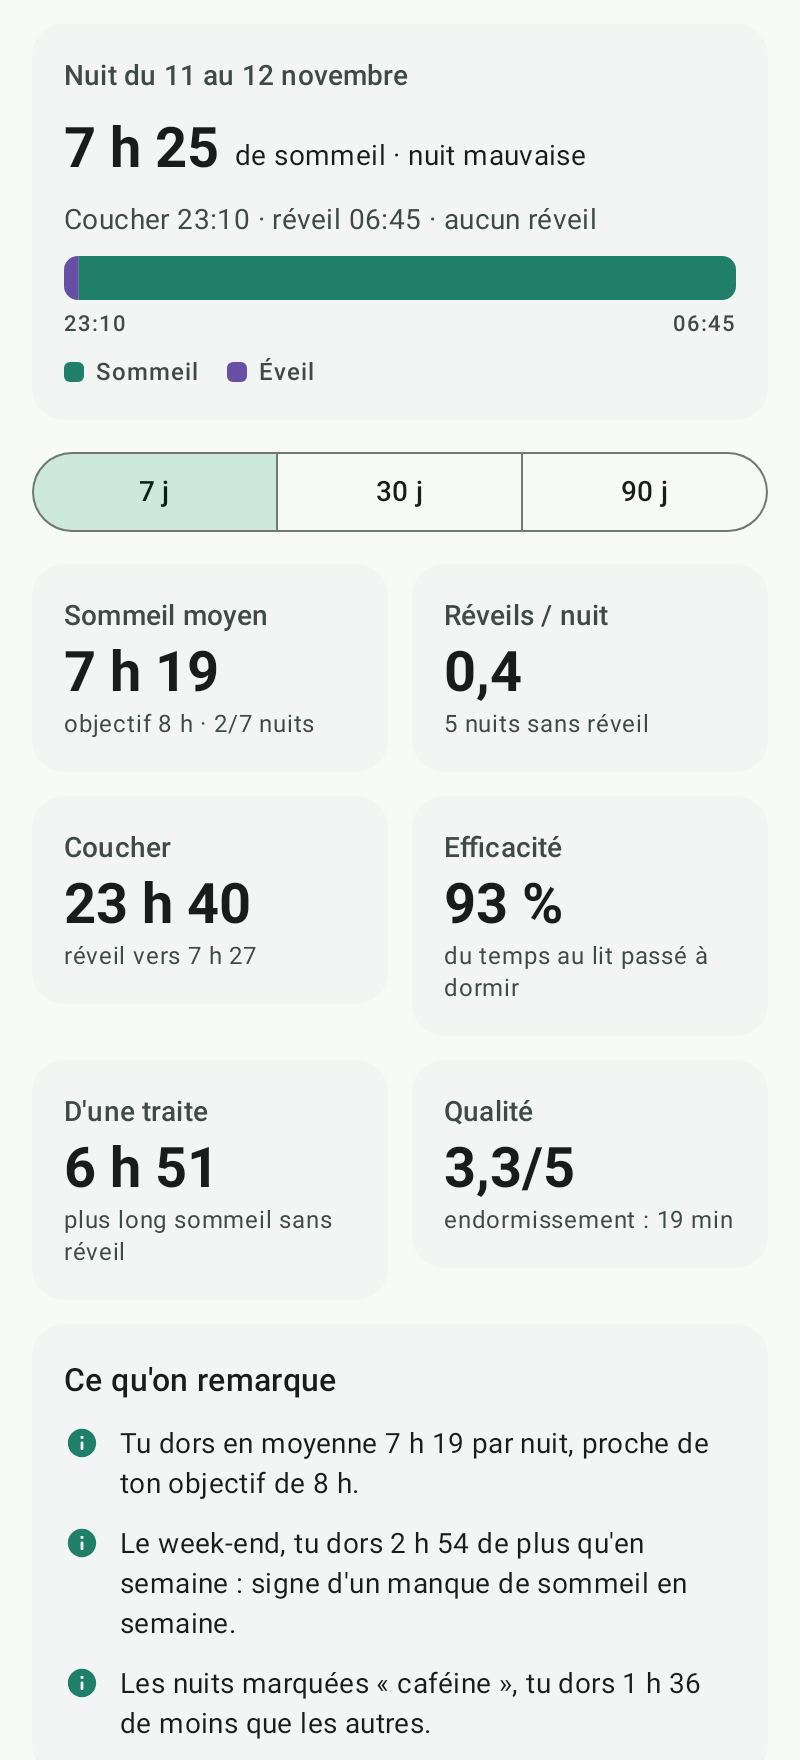
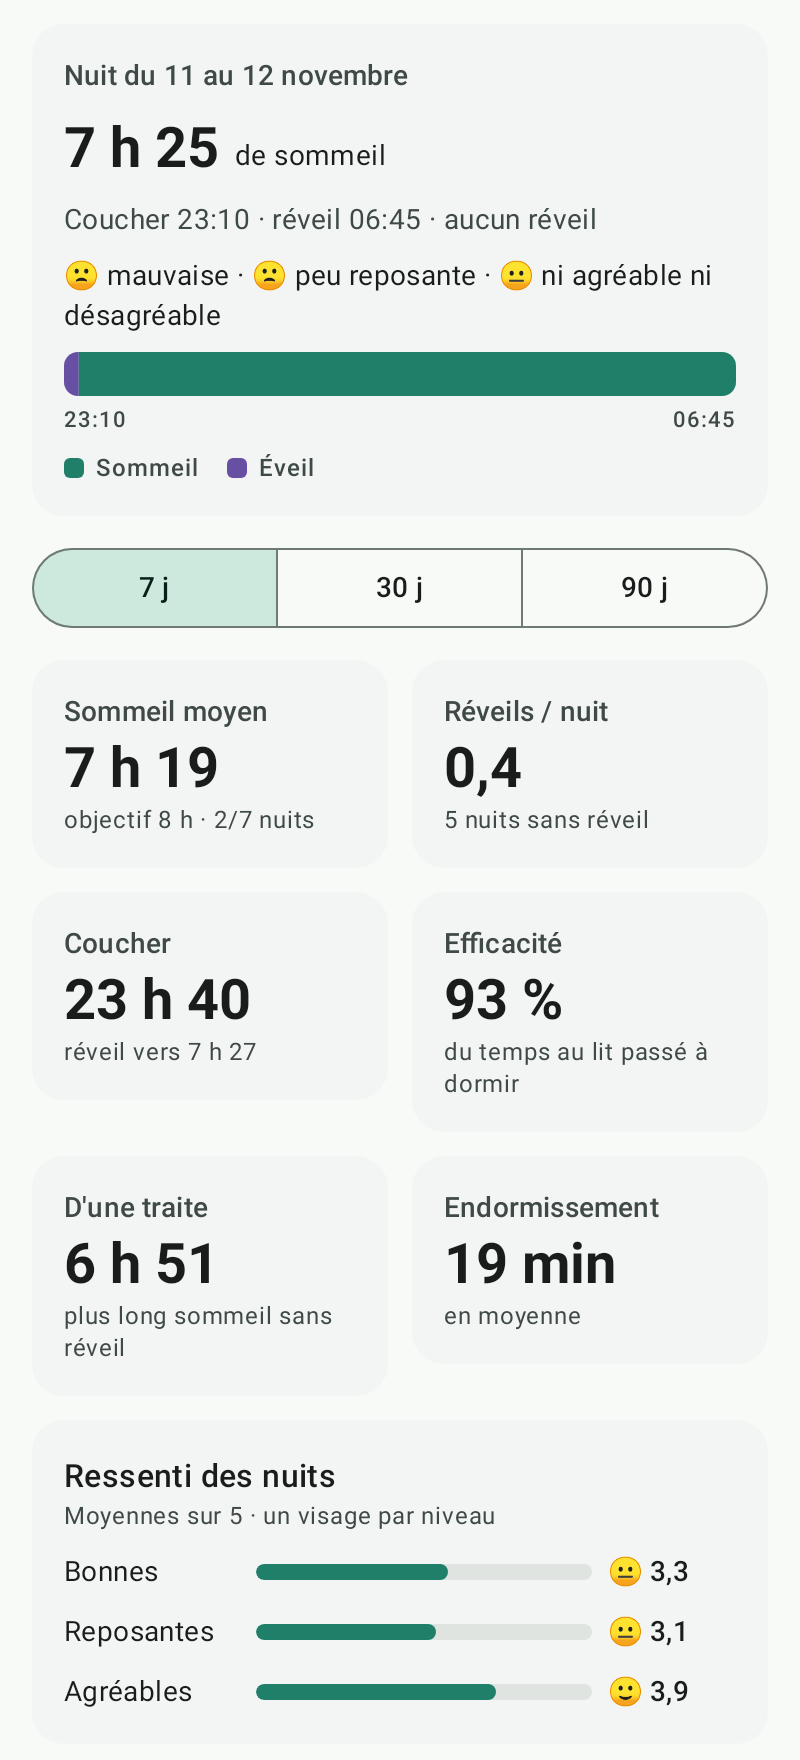
MédiPote 1.3.1: rate how restful and pleasant each night was
- The night editor asks three questions answered with a face from 1 to 5:
  good? restful? pleasant? (the first one is the existing quality).
- Sleep tab: "Ressenti des nuits" averages, feelings shown on last night
  and in the history; insights on what makes nights restful (no
  awakenings, enough sleep) and a gentle warning when they rarely are.
- Doctor report includes the restful and pleasant averages.

Claude-Session: https://claude.ai/code/session_01VmKWzz383TGuTeEhcBgN5q

diff --git a/medipote/src/main/kotlin/com/medipote/app/ui/sleep/SleepScreens.kt b/medipote/src/main/kotlin/com/medipote/app/ui/sleep/SleepScreens.kt
@@ -61,6 +61,7 @@ import androidx.compose.runtime.setValue
 import androidx.compose.ui.Alignment
 import androidx.compose.ui.Modifier
 import androidx.compose.ui.draw.clip
+import androidx.compose.ui.draw.alpha
 import androidx.compose.ui.geometry.Offset
 import androidx.compose.ui.geometry.Size
 import androidx.compose.ui.graphics.vector.ImageVector
@@ -164,6 +165,13 @@ private fun TimelineLegend() {
     }
 }
 
+/** "🙂 bonne · 😄 très reposante · 😐 ni agréable ni désagréable" */
+private fun feelings(n: SleepNight): String? = listOfNotNull(
+    n.quality?.let { "${Sleep.FACES[it - 1]} ${Sleep.QUALITY_LABELS[it - 1].lowercase()}" },
+    n.rested?.let { "${Sleep.FACES[it - 1]} ${Sleep.RESTED_LABELS[it - 1].lowercase()}" },
+    n.pleasant?.let { "${Sleep.FACES[it - 1]} ${if (it == 3) "ni agréable ni désagréable" else Sleep.PLEASANT_LABELS[it - 1].lowercase()}" },
+).joinToString(" · ").ifEmpty { null }
+
 private fun nightSummary(n: SleepNight): String = buildString {
     append("Coucher ${n.bedtime.format(hourMinute)} · réveil ${n.wakeTime.format(hourMinute)}")
     append(
@@ -216,12 +224,13 @@ fun SleepScreen(state: AppState, now: LocalDateTime, onLog: () -> Unit, onOpen: 
                         Text(Sleep.format(lastNight.asleepMinutes), style = MaterialTheme.typography.headlineMedium)
                         Spacer(Modifier.width(8.dp))
                         Text(
-                            "de sommeil" + (lastNight.quality?.let { " · nuit ${Sleep.QUALITY_LABELS[it - 1].lowercase()}" } ?: ""),
+                            "de sommeil",
                             style = MaterialTheme.typography.bodyMedium,
                             modifier = Modifier.padding(bottom = 4.dp),
                         )
                     }
                     Text(nightSummary(lastNight), style = MaterialTheme.typography.bodyMedium, color = MaterialTheme.colorScheme.onSurfaceVariant)
+                    feelings(lastNight)?.let { Text(it, style = MaterialTheme.typography.bodyMedium) }
                     NightTimeline(lastNight)
                     TimelineLegend()
                 }
@@ -301,11 +310,65 @@ private fun SleepTiles(r: SleepReport) {
             Modifier.weight(1f),
         )
         StatTile(
-            "Qualité",
-            r.averageQuality?.let { "${decimal(it)}/5" } ?: "—",
-            r.averageLatency?.let { "endormissement : ${Sleep.format(it)}" },
+            "Endormissement",
+            r.averageLatency?.let(Sleep::format) ?: "—",
+            "en moyenne",
             Modifier.weight(1f),
         )
+    }
+    if (r.averageQuality != null || r.averageRested != null || r.averagePleasant != null) {
+        StatCard("Ressenti des nuits", subtitle = "Moyennes sur 5 · un visage par niveau") {
+            FeelingRow("Bonnes", r.averageQuality)
+            FeelingRow("Reposantes", r.averageRested)
+            FeelingRow("Agréables", r.averagePleasant)
+        }
+    }
+}
+
+@Composable
+private fun FeelingRow(label: String, value: Float?) {
+    Row(verticalAlignment = Alignment.CenterVertically) {
+        Text(label, style = MaterialTheme.typography.bodyMedium, modifier = Modifier.width(96.dp))
+        androidx.compose.foundation.layout.Box(Modifier.weight(1f)) {
+            com.medipote.app.ui.stats.Meter(((value ?: 0f) - 1f) / 4f, MaterialTheme.colorScheme.primary, MaterialTheme.colorScheme.surfaceContainerHighest)
+        }
+        Text(
+            value?.let { "${Sleep.FACES[(it.roundToInt() - 1).coerceIn(0, 4)]} ${decimal(it)}" } ?: "—",
+            style = MaterialTheme.typography.labelLarge,
+            modifier = Modifier.width(72.dp).padding(start = 8.dp),
+        )
+    }
+}
+
+/** One question of the night, answered with a face from 1 to 5 (tap again to clear). */
+@Composable
+private fun RatingRow(question: String, value: Int?, labels: List<String>, onChange: (Int?) -> Unit) {
+    Column(verticalArrangement = Arrangement.spacedBy(6.dp)) {
+        Row(verticalAlignment = Alignment.CenterVertically) {
+            Text(question, style = MaterialTheme.typography.titleSmall, modifier = Modifier.weight(1f))
+            Text(
+                value?.let { labels[it - 1] } ?: "non noté",
+                style = MaterialTheme.typography.labelLarge,
+                color = if (value == null) MaterialTheme.colorScheme.onSurfaceVariant else MaterialTheme.colorScheme.primary,
+            )
+        }
+        Row(horizontalArrangement = Arrangement.spacedBy(6.dp)) {
+            Sleep.FACES.forEachIndexed { i, face ->
+                val v = i + 1
+                val selected = value == v
+                androidx.compose.material3.Surface(
+                    onClick = { onChange(if (selected) null else v) },
+                    shape = androidx.compose.foundation.shape.RoundedCornerShape(12.dp),
+                    color = if (selected) MaterialTheme.colorScheme.primaryContainer else MaterialTheme.colorScheme.surfaceContainerHighest,
+                    border = if (selected) androidx.compose.foundation.BorderStroke(2.dp, MaterialTheme.colorScheme.primary) else null,
+                    modifier = Modifier.weight(1f).height(44.dp).semantics { contentDescription = "$question ${labels[i]}" },
+                ) {
+                    androidx.compose.foundation.layout.Box(contentAlignment = Alignment.Center) {
+                        Text(face, style = MaterialTheme.typography.titleLarge, modifier = Modifier.alpha(if (value == null || selected) 1f else 0.45f))
+                    }
+                }
+            }
+        }
     }
 }
 
@@ -408,7 +471,7 @@ private fun NightRow(n: SleepNight, goal: Int, onClick: () -> Unit) {
         }
         NightTimeline(n, height = 8, labels = false)
         Text(
-            nightSummary(n) + (n.quality?.let { " · ${Sleep.QUALITY_LABELS[it - 1].lowercase()}" } ?: ""),
+            nightSummary(n) + (feelings(n)?.let { " · $it" } ?: ""),
             style = MaterialTheme.typography.bodySmall,
             color = MaterialTheme.colorScheme.onSurfaceVariant,
             maxLines = 2,
@@ -446,6 +509,8 @@ fun SleepEditorScreen(
         mutableStateListOf<AwakeningDraft>().apply { addAll(initial.awakenings.map { AwakeningDraft(Sleep.minuteOf(it.at), it.minutes, it.reason) }) }
     }
     var quality by rememberSaveable { mutableStateOf(initial.quality) }
+    var rested by rememberSaveable { mutableStateOf(initial.rested) }
+    var pleasant by rememberSaveable { mutableStateOf(initial.pleasant) }
     val tags = remember { mutableStateListOf<String>().apply { addAll(initial.tags) } }
     var notes by rememberSaveable { mutableStateOf(initial.notes) }
     var picking by remember { mutableStateOf<Pair<String, Int>?>(null) } // "bed" / "wake" / "a<index>"
@@ -460,6 +525,8 @@ fun SleepEditorScreen(
         wakeTime = wake,
         awakenings = awakenings.map { Awakening(Sleep.inNight(wake, it.minuteOfDay), it.minutes, it.reason) },
         quality = quality,
+        rested = rested,
+        pleasant = pleasant,
         tags = tags.toList(),
         notes = notes.trim(),
     )
@@ -569,11 +636,12 @@ fun SleepEditorScreen(
                 Text("Ajouter un réveil")
             }
 
-            SectionTitle("Qualité de la nuit")
-            FlowRow(horizontalArrangement = Arrangement.spacedBy(8.dp)) {
-                Sleep.QUALITY_LABELS.forEachIndexed { i, label ->
-                    val v = i + 1
-                    FilterChip(selected = quality == v, onClick = { quality = if (quality == v) null else v }, label = { Text(label) })
+            SectionTitle("Comment était ta nuit ?")
+            Card(colors = CardDefaults.cardColors(containerColor = MaterialTheme.colorScheme.surfaceContainerLow)) {
+                Column(Modifier.padding(16.dp), verticalArrangement = Arrangement.spacedBy(14.dp)) {
+                    RatingRow("Bonne ?", quality, Sleep.QUALITY_LABELS) { quality = it }
+                    RatingRow("Reposante ?", rested, Sleep.RESTED_LABELS) { rested = it }
+                    RatingRow("Agréable ?", pleasant, Sleep.PLEASANT_LABELS) { pleasant = it }
                 }
             }
 

diff --git a/medipote/src/main/kotlin/com/medipote/app/domain/Sleep.kt b/medipote/src/main/kotlin/com/medipote/app/domain/Sleep.kt
@@ -35,6 +35,8 @@ data class SleepReport(
     val goalNights: Int,
     val calmNights: Int,
     val averageQuality: Float?,
+    val averageRested: Float?,
+    val averagePleasant: Float?,
     /** Night awakenings per hour of the day. */
     val awakeningHours: IntArray,
     val typicalAwakening: Int?,
@@ -60,6 +62,9 @@ object Sleep {
         "Ronflements", "Sieste", "Médicament pour dormir", "Pas chez moi",
     )
     val QUALITY_LABELS = listOf("Très mauvaise", "Mauvaise", "Moyenne", "Bonne", "Excellente")
+    val RESTED_LABELS = listOf("Pas du tout reposante", "Peu reposante", "Moyennement reposante", "Reposante", "Très reposante")
+    val PLEASANT_LABELS = listOf("Très désagréable", "Désagréable", "Ni l'un ni l'autre", "Agréable", "Très agréable")
+    val FACES = listOf("😫", "🙁", "😐", "🙂", "😄")
     val LATENCY_OPTIONS = listOf(0, 5, 10, 15, 20, 30, 45, 60, 90, 120)
     val DURATION_OPTIONS = listOf(5, 10, 15, 20, 30, 45, 60, 90, 120, 180)
 
@@ -181,6 +186,8 @@ object Sleep {
             goalNights = nights.count { it.asleepMinutes >= goal },
             calmNights = nights.count { it.awakenings.isEmpty() },
             averageQuality = nights.mapNotNull { it.quality }.takeIf { it.isNotEmpty() }?.average()?.toFloat(),
+            averageRested = nights.mapNotNull { it.rested }.takeIf { it.isNotEmpty() }?.average()?.toFloat(),
+            averagePleasant = nights.mapNotNull { it.pleasant }.takeIf { it.isNotEmpty() }?.average()?.toFloat(),
             awakeningHours = hours,
             typicalAwakening = if (awakenings.size >= 3) Reports.circularMean(awakenings.map { minuteOf(it.at) }, 0.6) else null,
             reasons = ranked(awakenings.map { it.reason }),
@@ -258,6 +265,27 @@ object Sleep {
         }.minByOrNull { it.second }?.let { (tag, diff) ->
             if (diff <= -30) out += Insight("Les nuits marquées « ${tag.lowercase()} », tu dors ${format(-diff)} de moins que les autres.", Tone.INFO)
         }
+        // What makes the nights restful.
+        val rated = r.nights.filter { it.rested != null }
+        if (rated.size >= 5) {
+            val avgRested = rated.map { it.rested!! }.average()
+            if (avgRested <= 2.5) {
+                out += Insight("Tes nuits sont peu reposantes (${dec(avgRested.toFloat())}/5 en moyenne) : si ça dure, parles-en à ton médecin.", Tone.WARN)
+            }
+            fun compare(a: List<SleepNight>, b: List<SleepNight>) =
+                if (a.size >= 2 && b.size >= 2) a.map { it.rested!! }.average() to b.map { it.rested!! }.average() else null
+            compare(rated.filter { it.awakenings.isEmpty() }, rated.filter { it.awakenings.isNotEmpty() })?.let { (calm, woken) ->
+                if (calm - woken >= 0.7) {
+                    out += Insight("Les nuits sans réveil sont plus reposantes : ${dec(calm.toFloat())}/5 contre ${dec(woken.toFloat())}/5.", Tone.INFO)
+                }
+            }
+            compare(rated.filter { it.asleepMinutes >= goal - 60 }, rated.filter { it.asleepMinutes < goal - 60 })?.let { (long, short) ->
+                if (long - short >= 0.7) {
+                    out += Insight("Au-delà de ${format(goal - 60)} de sommeil, tes nuits sont plus reposantes (${dec(long.toFloat())}/5 contre ${dec(short.toFloat())}/5).", Tone.INFO)
+                }
+            }
+        }
+
         // How the day felt after a good night or a short one (journal of the same morning).
         val good = mutableListOf<Double>()
         val short = mutableListOf<Double>()

diff --git a/medipote/src/test/kotlin/com/medipote/app/SleepTest.kt b/medipote/src/test/kotlin/com/medipote/app/SleepTest.kt
@@ -31,7 +31,7 @@ class SleepTest {
         val w = date.atTime(wake / 60, wake % 60)
         return SleepNight(
             date, Sleep.bedtimeFor(date, bed), latency, w,
-            awakenings.map { (at, minutes) -> Awakening(Sleep.inNight(w, at), minutes, reason) }, quality, tags,
+            awakenings.map { (at, minutes) -> Awakening(Sleep.inNight(w, at), minutes, reason) }, quality, tags = tags,
         )
     }
 
@@ -157,5 +157,25 @@ class SleepTest {
         val logged = state.copy(sleep = listOf(night(day)))
         assertEquals(listOf(day.plusDays(1).atTime(9, 0)), ReminderPlanner.plan(logged, day.atTime(7, 0)).filter { it.kind == AlarmKind.SLEEP }.map { it.time })
         assertFalse(ReminderPlanner.plan(state.copy(settings = Settings()), day.atTime(7, 0)).any { it.kind == AlarmKind.SLEEP })
+    }
+
+    @Test
+    fun restfulAndPleasantNights() {
+        // Calm nights feel restful, nights with awakenings don't.
+        val nights = (0 until 8).map { i ->
+            val woken = i % 2 == 1
+            night(day.minusDays(i.toLong()), awakenings = if (woken) listOf(3 * 60 to 30) else emptyList())
+                .copy(quality = if (woken) 2 else 4, rested = if (woken) 2 else 5, pleasant = 3)
+        }
+        val r = Sleep.report(AppState(sleep = nights), day, 8)
+        assertEquals(3.5f, r.averageRested!!, 0.001f)
+        assertEquals(3f, r.averagePleasant!!, 0.001f)
+        assertEquals(3f, r.averageQuality!!, 0.001f)
+        assertTrue(r.insights.toString(), r.insights.any { it.text == "Les nuits sans réveil sont plus reposantes : 5,0/5 contre 2,0/5." })
+        // Mostly unrestful nights: a gentle warning.
+        val tired = nights.map { it.copy(rested = 2) }
+        assertTrue(Sleep.report(AppState(sleep = tired), day, 8).insights.any { it.tone == Tone.WARN && it.text.startsWith("Tes nuits sont peu reposantes") })
+        assertEquals(5, Sleep.RESTED_LABELS.size)
+        assertEquals(5, Sleep.PLEASANT_LABELS.size)
     }
 }

diff --git a/medipote/src/test/kotlin/com/medipote/app/RepositoryTest.kt b/medipote/src/test/kotlin/com/medipote/app/RepositoryTest.kt
@@ -77,7 +77,8 @@ class RepositoryTest {
         val date = java.time.LocalDate.of(2026, 11, 12)
         val night = com.medipote.app.data.SleepNight(
             date, date.minusDays(1).atTime(23, 20), 25, date.atTime(6, 50),
-            listOf(com.medipote.app.data.Awakening(date.atTime(3, 10), 20, "Toilettes")), 4, listOf("Caféine"), "rêve bizarre",
+            listOf(com.medipote.app.data.Awakening(date.atTime(3, 10), 20, "Toilettes")), 4, rested = 3, pleasant = 5,
+            tags = listOf("Caféine"), notes = "rêve bizarre",
         )
         val settings = com.medipote.app.data.Settings(sleep = com.medipote.app.data.SleepSettings(7 * 60 + 30, true, 8 * 60))
         AppRepository(file).update { AppState(sleep = listOf(night), settings = settings, onboarded = true) }

diff --git a/medipote/src/test/kotlin/com/medipote/app/ScreensTest.kt b/medipote/src/test/kotlin/com/medipote/app/ScreensTest.kt
@@ -561,7 +561,9 @@ class ScreensTest {
             }
             com.medipote.app.data.SleepNight(
                 d, bed, listOf(10, 20, 30)[i % 3], wake, if (weekend) emptyList() else awakenings,
-                quality = 2 + (i * 5 % 4), tags = listOfNotNull("Écrans avant de dormir".takeIf { i % 3 == 0 }, "Caféine".takeIf { i % 5 == 1 }),
+                quality = 2 + (i * 5 % 4),
+                rested = if (weekend) 4 + i % 2 else 2 + (i * 7 % 3), pleasant = 3 + i % 3,
+                tags = listOfNotNull("Écrans avant de dormir".takeIf { i % 3 == 0 }, "Caféine".takeIf { i % 5 == 1 }),
             )
         }
         return sampleState().copy(sleep = nights)

diff --git a/medipote/src/main/kotlin/com/medipote/app/domain/DoctorReport.kt b/medipote/src/main/kotlin/com/medipote/app/domain/DoctorReport.kt
@@ -240,6 +240,8 @@ object DoctorReports {
             r.reasons.takeIf { it.isNotEmpty() }?.let { "Causes des réveils" to it.take(4).joinToString(", ") { (k, n) -> "${k.lowercase()} ($n)" } },
             r.averageEfficiency?.let { "Efficacité du sommeil" to pct(it) },
             r.averageQuality?.let { "Qualité ressentie" to "${dec(it)}/5" },
+            r.averageRested?.let { "Nuits reposantes" to "${dec(it)}/5" },
+            r.averagePleasant?.let { "Nuits agréables" to "${dec(it)}/5" },
         )
         return ReportSection(ReportPart.SLEEP.label, listOf(ReportBlock.Facts(facts)))
     }

diff --git a/medipote/src/main/kotlin/com/medipote/app/data/Health.kt b/medipote/src/main/kotlin/com/medipote/app/data/Health.kt
@@ -201,6 +201,10 @@ data class SleepNight(
     val awakenings: List<Awakening> = emptyList(),
     /** 1 (very bad) to 5 (excellent). */
     val quality: Int? = null,
+    /** How rested on waking up, 1 (not at all) to 5 (very). */
+    val rested: Int? = null,
+    /** How pleasant the night felt (dreams, comfort), 1 to 5. */
+    val pleasant: Int? = null,
     val tags: List<String> = emptyList(),
     val notes: String = "",
 ) {

diff --git a/medipote/README.md b/medipote/README.md
@@ -97,7 +97,10 @@ Profil médical et paramètres sont accessibles en haut à droite.
 - **Sommeil** (Suivi › Sommeil) : chaque matin, heure du coucher, temps
   d'endormissement, heure du réveil et **réveils dans la nuit** (heure, durée,
   cause : toilettes, bruit, chaleur, douleur, cauchemar, anxiété, enfant…),
-  qualité de la nuit (5 niveaux), ce qui a pu jouer (écrans, caféine, alcool,
+  ressenti de la nuit en trois questions notées d'un visage (bonne ?
+  reposante ? agréable ?), avec moyennes et analyses (nuits sans réveil plus
+  reposantes, durée qui rend les nuits reposantes, alerte si elles le sont
+  rarement), ce qui a pu jouer (écrans, caféine, alcool,
   sport, repas tardif, stress…) et notes. La saisie est pré-remplie avec tes
   horaires habituels et affiche la nuit en direct sur une frise (sommeil /
   éveil) avec durée de sommeil, temps au lit, efficacité et plus long sommeil

diff --git a/medipote/RELEASE.md b/medipote/RELEASE.md
@@ -66,6 +66,11 @@ L'optimiseur de R8 reste désactivé (`-dontoptimize`) : APK de 3,8 Mo au lieu d
 le dex livré peut être reconverti et exécuté hors appareil pour vérification (voir plus bas),
 ce que l'optimiseur empêche. Il pourra être réactivé après des essais sur téléphone.
 
+### 1.3.1
+
+- Sommeil : la nuit se note aussi « reposante » et « agréable » (en plus de « bonne »), d'un
+  visage sur 5 ; moyennes, analyses et rapport PDF.
+
 ### 1.3.0
 
 - Mesures de santé (tension, pouls, glycémie, poids, température, saturation), chaque type
